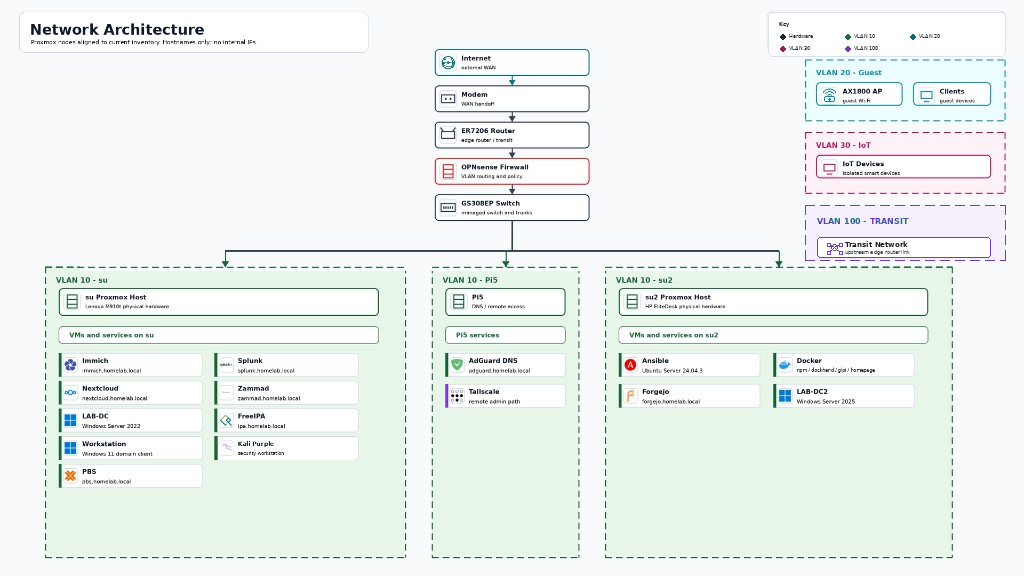
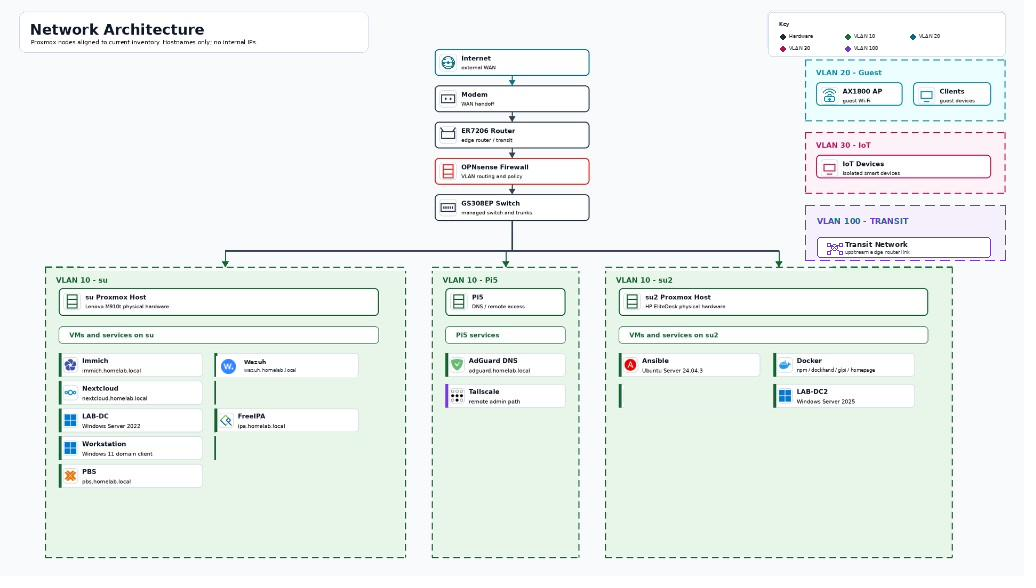
Remove FreeIPA/AlmaLinux references, update architecture diagram, finalize inventory groups

diff --git a/README.md b/README.md
@@ -2,7 +2,7 @@
 
 A two-node Proxmox cluster running enterprise infrastructure across virtualization, identity, networking, security, and automation. Primary landing page for architecture, documentation, and operational runbooks
 
-> **Built by:** Lamar Scott | **GitHub:** [lamsec94](https://github.com/lamsec94) | **Last updated:** June 2026
+Built by: Lamar Scott | GitHub: lamsec94 | Last updated: June 2026
 
 ---
 
@@ -12,14 +12,7 @@ A two-node Proxmox cluster running enterprise infrastructure across virtualizati
 ---
 
 ## What I Built
-Migrated a flat home network into a fully segmented, enterprise-style infrastructure across
-5 VLANs with OPNsense handling all routing and firewall policy. Deployed a dual-node Proxmox
-cluster running 15 VMs and LXC containers across Windows and Linux workloads. Implemented
-dual identity management with Active Directory (Windows Server 2022/2025) and FreeIPA
-(AlmaLinux), enterprise PKI with a wildcard certificate across all 14 internal HTTPS services,
-a Wazuh SIEM deployment ingesting OPNsense syslog, Suricata IDS alerts, and host-level agent
-telemetry, and an Ansible automation layer managing 12 hosts across 6 inventory groups. All
-services are reverse-proxied through Nginx Proxy Manager with TLS termination via an internal CA.
+Migrated a flat home network into a fully segmented, enterprise-style infrastructure across 5 VLANs with OPNsense handling all routing and firewall policy. Deployed a dual-node Proxmox cluster running 15 VMs and LXC containers across Windows and Linux workloads. Implemented identity management with Active Directory (Windows Server 2022/2025), enterprise PKI with a wildcard certificate across all 14 internal HTTPS services, a Wazuh SIEM deployment ingesting OPNsense syslog, Suricata IDS alerts, and host-level agent telemetry, and an Ansible automation layer managing the fleet across 5 inventory groups. All services are reverse-proxied through Nginx Proxy Manager with TLS termination via an internal CA.
 
 ---
 
@@ -52,9 +45,8 @@ services are reverse-proxied through Nginx Proxy Manager with TLS termination vi
 | OPNsense            | VM     | —                           | Firewall, Suricata IDS, DHCP     |
 | LAB-DC (WS2022)     | VM     | —                           | Primary DC, DNS, ADCS, PKI       |
 | LAB-DC2 (WS2025)    | VM     | —                           | Secondary DC, Wazuh agent        |
-| FreeIPA             | VM     | ipa01.ipa.homelab.local     | Linux identity, HBAC, sudo       |
 | Wazuh SIEM          | VM     | wazuh.homelab.local         | SIEM, syslog + agent monitoring  |
-| Ansible Controller  | VM     | —                           | Ubuntu 24.04, 11 managed hosts   |
+| Ansible Controller  | VM     | —                           | Ubuntu 24.04                     |
 | Nextcloud           | LXC    | nextcloud.homelab.local     | File storage, laptop backup      |
 | GLPI                | Docker | glpi.homelab.local          | ITSM, LDAP auth, asset discovery |
 | Nginx Proxy Manager | Docker | npm.homelab.local           | Reverse proxy, wildcard HTTPS    |
@@ -65,58 +57,52 @@ services are reverse-proxied through Nginx Proxy Manager with TLS termination vi
 ---
 
 ## Identity & Access
-**Windows — Active Directory**
-- Domain: `homelab.local` | Primary DC: LAB-DC (WS2022) | Secondary: LAB-DC2 (WS2025)
-- OU hierarchy: `Corp-Computers`, `Corp-Users`, `Engineering`, `IT Staff`
+Windows — Active Directory
+- Domain: homelab.local | Primary DC: LAB-DC (WS2022) | Secondary: LAB-DC2 (WS2025)
+- OU hierarchy: Corp-Computers, Corp-Users, Engineering, IT Staff
 - GPOs: screen lock, 7-Zip deployment, WSUS targeting, USB storage blocking
-- Enterprise Root CA (`homelab-CA`) via ADCS — wildcard cert covering all 14 internal services
-- LDAP service account pattern (`svc-glpi`) for least-privilege third-party integration
-
-**Linux — FreeIPA**
-- Host: `ipa01` (AlmaLinux) | Enrolled: `ipa01`, `ubuntuserver`
-- HBAC: `allowadmins` active, `allowall` disabled
-- Sudo rule requiring password prompt for all admin operations
+- Enterprise Root CA (homelab-CA) via ADCS — wildcard cert covering all 14 internal services
+- LDAP service account pattern (svc-glpi) for least-privilege third-party integration
 
 ---
 
 ## Security & Monitoring
-**Wazuh SIEM**
-- Dedicated Ubuntu 24.04 VM (manager, indexer, dashboard) — migrated from an earlier
-  Docker-in-LXC deployment for long-term stability
+Wazuh SIEM
+- Dedicated Ubuntu 24.04 VM (manager, indexer, dashboard) — migrated from an earlier Docker-in-LXC deployment for long-term stability
 - Agents deployed across the Linux fleet via Ansible and Windows hosts via MSI installer
 - OPNsense firewall logs and Suricata IDS alerts forwarded via syslog for unified visibility
 
-**Suricata IDS** — inline on OPNsense with alert forwarding to Wazuh
+Suricata IDS — inline on OPNsense with alert forwarding to Wazuh
 
-**Hardening Baseline** (Ansible-enforced on all Linux hosts)
-- SSH key-only auth · `ufw` default-deny · `fail2ban` · scheduled patching
+Hardening Baseline (Ansible-enforced on all Linux hosts)
+- SSH key-only auth, ufw default-deny, fail2ban, scheduled patching
 
-**PKI**
-- All 14 services served over HTTPS with wildcard cert signed by internal `homelab-CA`
+PKI
+- All 14 services served over HTTPS with wildcard cert signed by internal homelab-CA
 - CA cert distributed to system trust store and Firefox on Fedora admin workstation
 
 ---
 
 ## Automation
-Ansible Controller on Ubuntu 24.04 managing hosts across 6 inventory groups.
+Ansible Controller on Ubuntu 24.04.
 
-| Inventory Group  | Members                               |
-|------------------|----------------------------------------|
-| proxmox_cluster  | proxmox1, proxmox2                    |
-| linux_vms        | ubuntu-server, almalinux              |
-| windows_vms      | windows-dc, windows11, LAB-DC2        |
-| lxc_containers   | nextcloud                             |
-| docker_hosts     | docker-host                           |
+| Inventory Group  | Members                        |
+|------------------|----------------------------------|
+| proxmox_cluster  | proxmox1, proxmox2             |
+| linux_vms        | ubuntu-server                  |
+| windows_vms      | windows-dc, windows11, LAB-DC2 |
+| lxc_containers   | nextcloud                      |
+| docker_hosts     | docker-host                    |
 
-**Key playbooks:**
-- `update-all.yml` — fleet patching across apt/dnf/Docker; runtime reduced from 23 min → 2 min after SSH pipelining and module optimization
-- `deploy-glpi-agent.yml` — cross-platform GLPI asset discovery agent deployment across Linux fleet
+Key playbooks:
+- update-all.yml — fleet patching across apt/Docker/Windows; runtime reduced from 23 min to 2 min after SSH pipelining and module optimization
+- deploy-glpi-agent.yml — cross-platform GLPI asset discovery agent deployment across Linux fleet
 
 ---
 
 ## Backup & Recovery
 | Scope            | Tool                 | Schedule      | Notes                            |
-|------------------|----------------------|---------------|----------------------------------|
+|------------------|----------------------|---------------|-----------------------------------|
 | VM snapshots     | Proxmox vzdump + PBS | Weekly Sunday | Both nodes                       |
 | Laptop home dir  | Déjà Dup → Nextcloud | Scheduled     | Fedora workstation               |
 | System snapshots | Timeshift (rsync)    | Pre-change    | Taken before all major changes   |
@@ -127,22 +113,19 @@ Ansible Controller on Ubuntu 24.04 managing hosts across 6 inventory groups.
 ## Documentation
 | Repository | Contents |
 |---|---|
-| [active-directory-lab](../active-directory-lab) | AD domain design, OU structure, GPOs, PKI, LDAP integration |
-| [homelab-network-documentation](../homelab-network-documentation) | VLAN layout, OPNsense config, DNS architecture |
-| [wazuh-siem-deployment](../wazuh-siem-deployment) | Wazuh VM deployment, agent config, syslog integration |
-| [homelab-runbooks](../homelab-runbooks) | Operational procedures, SOPs, change log, incident templates |
-| [glpi-itsm-deployment](../glpi-itsm-deployment) | ITSM platform deployment, LDAP auth, intake forms, asset discovery |
+| active-directory-lab | AD domain design, OU structure, GPOs, PKI, LDAP integration |
+| homelab-network-documentation | VLAN layout, OPNsense config, DNS architecture |
+| wazuh-siem-deployment | Wazuh VM deployment, agent config, syslog integration |
+| homelab-runbooks | Operational procedures, SOPs, change log, incident templates |
+| glpi-itsm-deployment | ITSM platform deployment, LDAP auth, intake forms, asset discovery |
 
 ---
 
 ## Skills Demonstrated
-`Proxmox VE` `Windows Server 2022/2025` `Active Directory` `Group Policy` `ADCS / PKI`
-`FreeIPA` `OPNsense` `VLAN segmentation` `Suricata IDS` `Wazuh SIEM`
-`Ansible` `Docker` `LXC` `Linux administration` `DNS` `Nginx Proxy Manager`
-`GLPI ITSM` `Tailscale` `Backup & Recovery` `Infrastructure documentation`
+Proxmox VE, Windows Server 2022/2025, Active Directory, Group Policy, ADCS / PKI, OPNsense, VLAN segmentation, Suricata IDS, Wazuh SIEM, Ansible, Docker, LXC, Linux administration, DNS, Nginx Proxy Manager, GLPI ITSM, Tailscale, Backup & Recovery, Infrastructure documentation
 
 ---
 
-**Email:** [scottlamar05@gmail.com](mailto:scottlamar05@gmail.com)
-**LinkedIn:** [linkedin.com/in/lamarscott](https://www.linkedin.com/in/lamarscott/)
-**GitHub:** [github.com/lamsec94](https://github.com/lamsec94)
+Email: scottlamar05@gmail.com
+LinkedIn: linkedin.com/in/lamarscott
+GitHub: github.com/lamsec94
